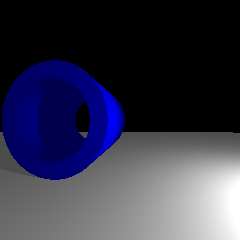
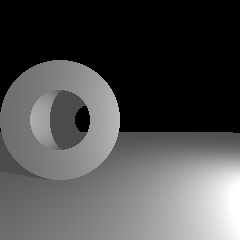
cylinder & tube fix
fixed cylinder normals
aded cylinder comments
fixed tube normals
added tube comments

Changed region(s): [[0.0, 0.2333, 0.525, 0.7583]]

diff --git a/Tube.cpp b/Tube.cpp
@@ -27,28 +27,27 @@ std::vector<RayIntersection> Tube::intersect(const Ray& ray) const {
 
 	Ray inverseRay = transform.applyInverse(ray);
 
+	RayIntersection hit;
+	hit.material = material;
+
 	Point p = inverseRay.point;
 	p(2) = 0;
 	Direction d = inverseRay.direction;
 	d(2) = 0;
 
-	
-	double z0 = inverseRay.point(2);
-	double dz = inverseRay.direction(2);
-	double zt = (-1-z0)/dz; /* Front face */
-
-	RayIntersection hit;
-	hit.material = material;
-
 	double a = d.dot(d);
 	double b = 2 * d.dot(p);
-	//Outer Tube
-	double c = p.dot(p) - 1;
+	double c = p.dot(p) - 1; /* Outer curved surface. */
 
-	double b2_4ac = b*b - 4*a*c;
+	double discriminant = b*b - 4*a*c;
 	double t;
 
-	switch (sign(b2_4ac)) {
+	double z0 = inverseRay.point(2);
+	double dz = inverseRay.direction(2);
+	double zt = (-1-z0)/dz; /* Top cap */
+
+	/* Check for intersections with the outer curved surface of the tube. */
+	switch (sign(discriminant)) {
 	case -1:
 		// No intersections
 		break;
@@ -60,7 +59,7 @@ std::vector<RayIntersection> Tube::intersect(const Ray& ray) const {
 			hit.point = Point(inverseRay.point + t*inverseRay.direction);
 			if (hit.point(2) <= 1 and hit.point(2) >= -1) {
 				hit.point = transform.apply(hit.point);
-				hit.normal = transform.apply(Normal(inverseRay.point + t*inverseRay.direction));
+				hit.normal = transform.apply(Normal(p + t * d));
 				hit.distance = (hit.point - ray.point).norm();
 				result.push_back(hit);
 			}
@@ -74,7 +73,7 @@ std::vector<RayIntersection> Tube::intersect(const Ray& ray) const {
 			hit.point = Point(inverseRay.point + t * inverseRay.direction);
 			if (hit.point(2) <= 1 and hit.point(2) >= -1) {
 				hit.point = transform.apply(hit.point);
-				hit.normal = transform.apply(Normal(inverseRay.point + t*inverseRay.direction));
+				hit.normal = transform.apply(Normal(p + t * d));
 				hit.distance = (hit.point - ray.point).norm();
 				result.push_back(hit);
 			}
@@ -86,25 +85,24 @@ std::vector<RayIntersection> Tube::intersect(const Ray& ray) const {
 			hit.point = Point(inverseRay.point + t * inverseRay.direction);
 			if (hit.point(2) <= 1.0 and hit.point(2) > -1) {
 				hit.point = transform.apply(hit.point);
-				hit.normal = transform.apply(Normal(inverseRay.point + t*inverseRay.direction));
+				hit.normal = transform.apply(Normal(p + t * d));
 				hit.distance = (hit.point - ray.point).norm();
 				result.push_back(hit);
 			}
 		}
 		break;
 	default:
-		// Shouldn't be possible, but just in case
 		std::cerr << "Something's wrong - sign(x) should be -1, +1 or 0" << std::endl;
 		exit(-1);
 		break;
 	}
 
-	//Inner Tube
-	c = p.dot(p) - (1/this->ratio_);
+	/* Check for intersections with the inner curved surface of the tube. */
+	c = p.dot(p) - this->ratio_ / 2;
 
-	b2_4ac = b*b - 4*a*c;
+	discriminant = b*b - 4*a*c;
 
-	switch (sign(b2_4ac)) {
+	switch (sign(discriminant)) {
 	case -1:
 		// No intersections
 		break;
@@ -116,7 +114,7 @@ std::vector<RayIntersection> Tube::intersect(const Ray& ray) const {
 			hit.point = Point(inverseRay.point + t*inverseRay.direction);
 			if (hit.point(2) <= 1 and hit.point(2) >= -1) {
 				hit.point = transform.apply(hit.point);
-				hit.normal = transform.apply(Normal(inverseRay.point + t*inverseRay.direction));
+				hit.normal = transform.apply(Normal(p + t * d));
 				hit.normal = -hit.normal;
 				hit.distance = (hit.point - ray.point).norm();
 				result.push_back(hit);
@@ -131,7 +129,7 @@ std::vector<RayIntersection> Tube::intersect(const Ray& ray) const {
 			hit.point = Point(inverseRay.point + t * inverseRay.direction);
 			if (hit.point(2) <= 1 and hit.point(2) >= -1) {
 				hit.point = transform.apply(hit.point);
-				hit.normal = transform.apply(Normal(inverseRay.point + t*inverseRay.direction));
+				hit.normal = transform.apply(Normal(p + t * d));
 				hit.normal = -hit.normal;
 				hit.distance = (hit.point - ray.point).norm();
 				result.push_back(hit);
@@ -144,7 +142,7 @@ std::vector<RayIntersection> Tube::intersect(const Ray& ray) const {
 			hit.point = Point(inverseRay.point + t * inverseRay.direction);
 			if (hit.point(2) <= 1.0 and hit.point(2) > -1) {
 				hit.point = transform.apply(hit.point);
-				hit.normal = transform.apply(Normal(inverseRay.point + t*inverseRay.direction));
+				hit.normal = transform.apply(Normal(p + t * d));
 				hit.normal = -hit.normal;
 				hit.distance = (hit.point - ray.point).norm();
 				result.push_back(hit);
@@ -152,32 +150,36 @@ std::vector<RayIntersection> Tube::intersect(const Ray& ray) const {
 		}
 		break;
 	default:
-		// Shouldn't be possible, but just in case
 		std::cerr << "Something's wrong - sign(x) should be -1, +1 or 0" << std::endl;
 		exit(-1);
 		break;
 	}
+
+	/* Check for intersections with the top and bottom cap of the tube. */
 	if (std::abs(dz) > epsilon) {
 		if (zt > 0) {
 			hit.point = inverseRay.point + zt*inverseRay.direction;
-			// if (std::abs(hit.point(0)) <= 1 && std::abs(hit.point(1)) <= 1) {
-			if (pow(hit.point(0), 2) + pow(hit.point(1), 2) <= 1 and pow(hit.point(0), 2) + pow(hit.point(1), 2) >= 1/this->ratio_) { 
-			hit.normal = Normal(0, 0, -1);
-			hit.point = transform.apply(hit.point);
-			hit.normal = transform.apply(hit.normal);
-			hit.distance = (hit.point - ray.point).norm();
-			result.push_back(hit);
+			if (pow(hit.point(0), 2) + pow(hit.point(1), 2) <= 1) {
+				if (pow(hit.point(0), 2) + pow(hit.point(1), 2) >= this->ratio_ / 2) {
+					hit.normal = Normal(0, 0, -1);
+					hit.point = transform.apply(hit.point);
+					hit.normal = transform.apply(hit.normal);
+					hit.distance = (hit.point - ray.point).norm();
+					result.push_back(hit);
+				}
 			}
 		}
 		zt = (1-z0)/dz;  /* Back face. */
 		if (zt > 0) {
 			hit.point = inverseRay.point + zt*inverseRay.direction;
-			if (pow(hit.point(0), 2) + pow(hit.point(1), 2) <= 1 and pow(hit.point(0), 2) + pow(hit.point(1), 2) >= 1/this->ratio_) { 
-			hit.normal = Normal(0, 0, 1);
-			hit.point = transform.apply(hit.point);
-			hit.normal = transform.apply(hit.normal);
-			hit.distance = (hit.point - ray.point).norm();
-			result.push_back(hit);
+			if (pow(hit.point(0), 2) + pow(hit.point(1), 2) <= 1) { 
+				if (pow(hit.point(0), 2) + pow(hit.point(1), 2) >= this->ratio_ / 2) {
+					hit.normal = Normal(0, 0, 1);
+					hit.point = transform.apply(hit.point);
+					hit.normal = transform.apply(hit.normal);
+					hit.distance = (hit.point - ray.point).norm();
+					result.push_back(hit);
+				}
 			}
 		}
 	}

diff --git a/Cylinder.cpp b/Cylinder.cpp
@@ -27,27 +27,29 @@ std::vector<RayIntersection> Cylinder::intersect(const Ray& ray) const {
 
 	Ray inverseRay = transform.applyInverse(ray);
 
+	RayIntersection hit;
+	hit.material = material;
+
 	Point p = inverseRay.point;
 	p(2) = 0;
+
 	Direction d = inverseRay.direction;
 	d(2) = 0;
 
 	
-	double z0 = inverseRay.point(2);
-	double dz = inverseRay.direction(2);
-	double zt = (-1-z0)/dz; /* Front face */
-
-	RayIntersection hit;
-	hit.material = material;
-
 	double a = d.dot(d);
 	double b = 2 * d.dot(p);
 	double c = p.dot(p) - 1;
 
-	double b2_4ac = b*b - 4*a*c;
+	double discriminant = b*b - 4*a*c;
 	double t;
+	
+	double z0 = inverseRay.point(2);
+	double dz = inverseRay.direction(2);
+	double zt = (-1-z0)/dz; /* Top cap */
 
-	switch (sign(b2_4ac)) {
+	/* Check for an intersection with the curved surface of the cylinder. */
+	switch (sign(discriminant)) {
 	case -1:
 		// No intersections
 		break;
@@ -59,7 +61,7 @@ std::vector<RayIntersection> Cylinder::intersect(const Ray& ray) const {
 			hit.point = Point(inverseRay.point + t*inverseRay.direction);
 			if (hit.point(2) <= 1 and hit.point(2) >= -1) {
 				hit.point = transform.apply(hit.point);
-				hit.normal = transform.apply(Normal(inverseRay.point + t*inverseRay.direction));
+				hit.normal = transform.apply(Normal(p + t * d));
 				hit.distance = (hit.point - ray.point).norm();
 				result.push_back(hit);
 			}
@@ -73,7 +75,7 @@ std::vector<RayIntersection> Cylinder::intersect(const Ray& ray) const {
 			hit.point = Point(inverseRay.point + t * inverseRay.direction);
 			if (hit.point(2) <= 1 and hit.point(2) >= -1) {
 				hit.point = transform.apply(hit.point);
-				hit.normal = transform.apply(Normal(inverseRay.point + t*inverseRay.direction));
+				hit.normal = transform.apply(Normal(p + t * d));
 				hit.distance = (hit.point - ray.point).norm();
 				result.push_back(hit);
 			}
@@ -85,22 +87,22 @@ std::vector<RayIntersection> Cylinder::intersect(const Ray& ray) const {
 			hit.point = Point(inverseRay.point + t * inverseRay.direction);
 			if (hit.point(2) <= 1.0 and hit.point(2) > -1) {
 				hit.point = transform.apply(hit.point);
-				hit.normal = transform.apply(Normal(inverseRay.point + t*inverseRay.direction));
+				hit.normal = transform.apply(Normal(p + t * d));
 				hit.distance = (hit.point - ray.point).norm();
 				result.push_back(hit);
 			}
 		}
 		break;
 	default:
-		// Shouldn't be possible, but just in case
 		std::cerr << "Something's wrong - sign(x) should be -1, +1 or 0" << std::endl;
 		exit(-1);
 		break;
 	}
+
+	/* Check for an intersection with the top and bottom cap. */
 	if (std::abs(dz) > epsilon) {
-		if (zt > 0) {
+		if (zt > 0) { 
 			hit.point = inverseRay.point + zt*inverseRay.direction;
-			// if (std::abs(hit.point(0)) <= 1 && std::abs(hit.point(1)) <= 1) {
 			if (pow(hit.point(0), 2) + pow(hit.point(1), 2) <= 1) { 
 			hit.normal = Normal(0, 0, -1);
 			hit.point = transform.apply(hit.point);
@@ -109,7 +111,7 @@ std::vector<RayIntersection> Cylinder::intersect(const Ray& ray) const {
 			result.push_back(hit);
 			}
 		}
-		zt = (1-z0)/dz;  /* Back face. */
+		zt = (1-z0)/dz;  /* Bottom cap */
 		if (zt > 0) {
 			hit.point = inverseRay.point + zt*inverseRay.direction;
 			if (pow(hit.point(0), 2) + pow(hit.point(1), 2) <= 1) { 
